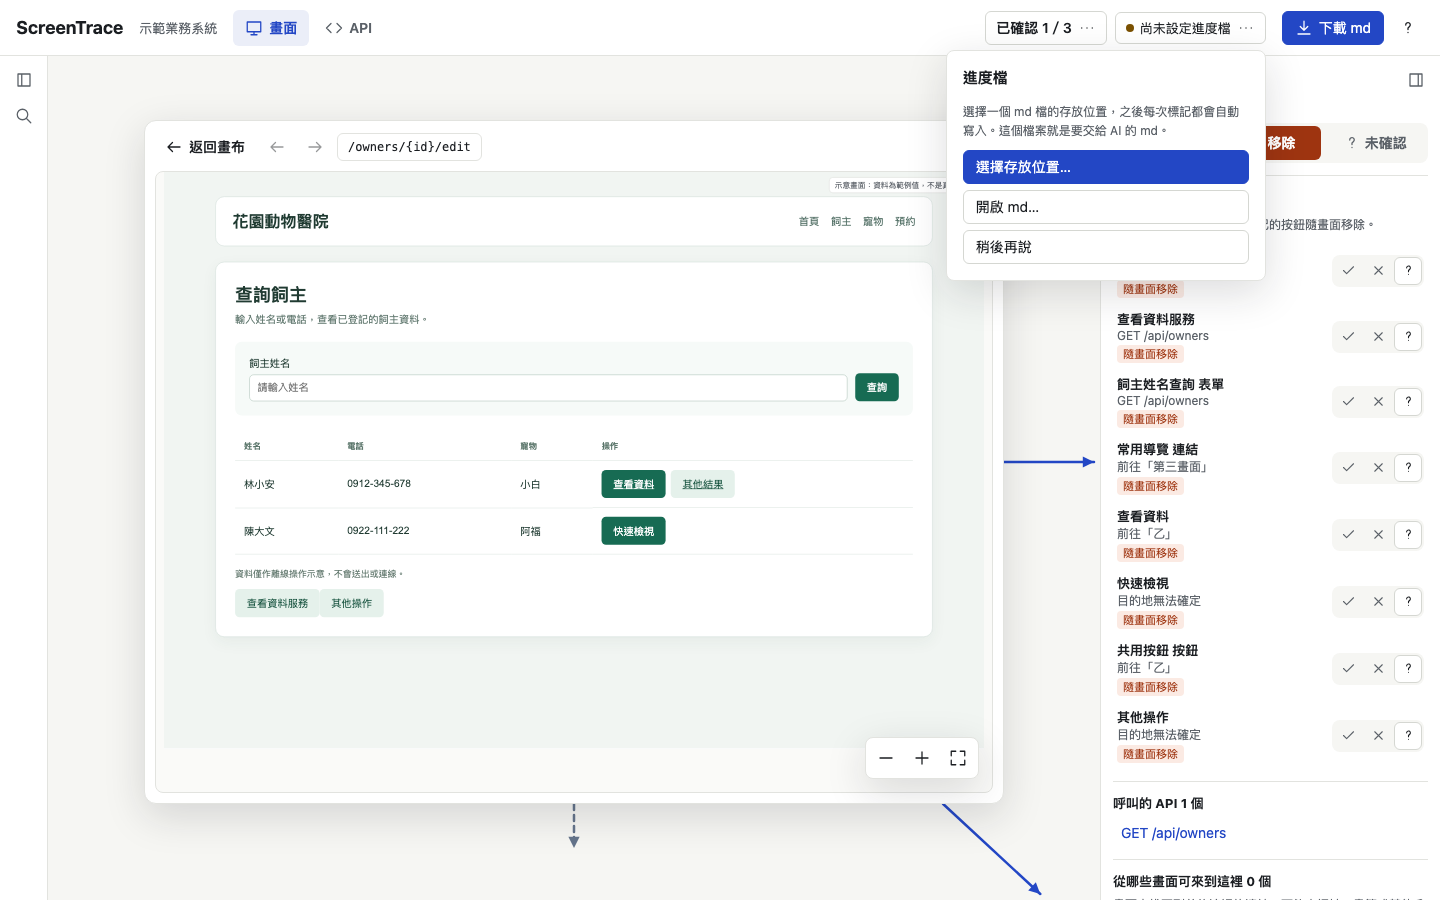
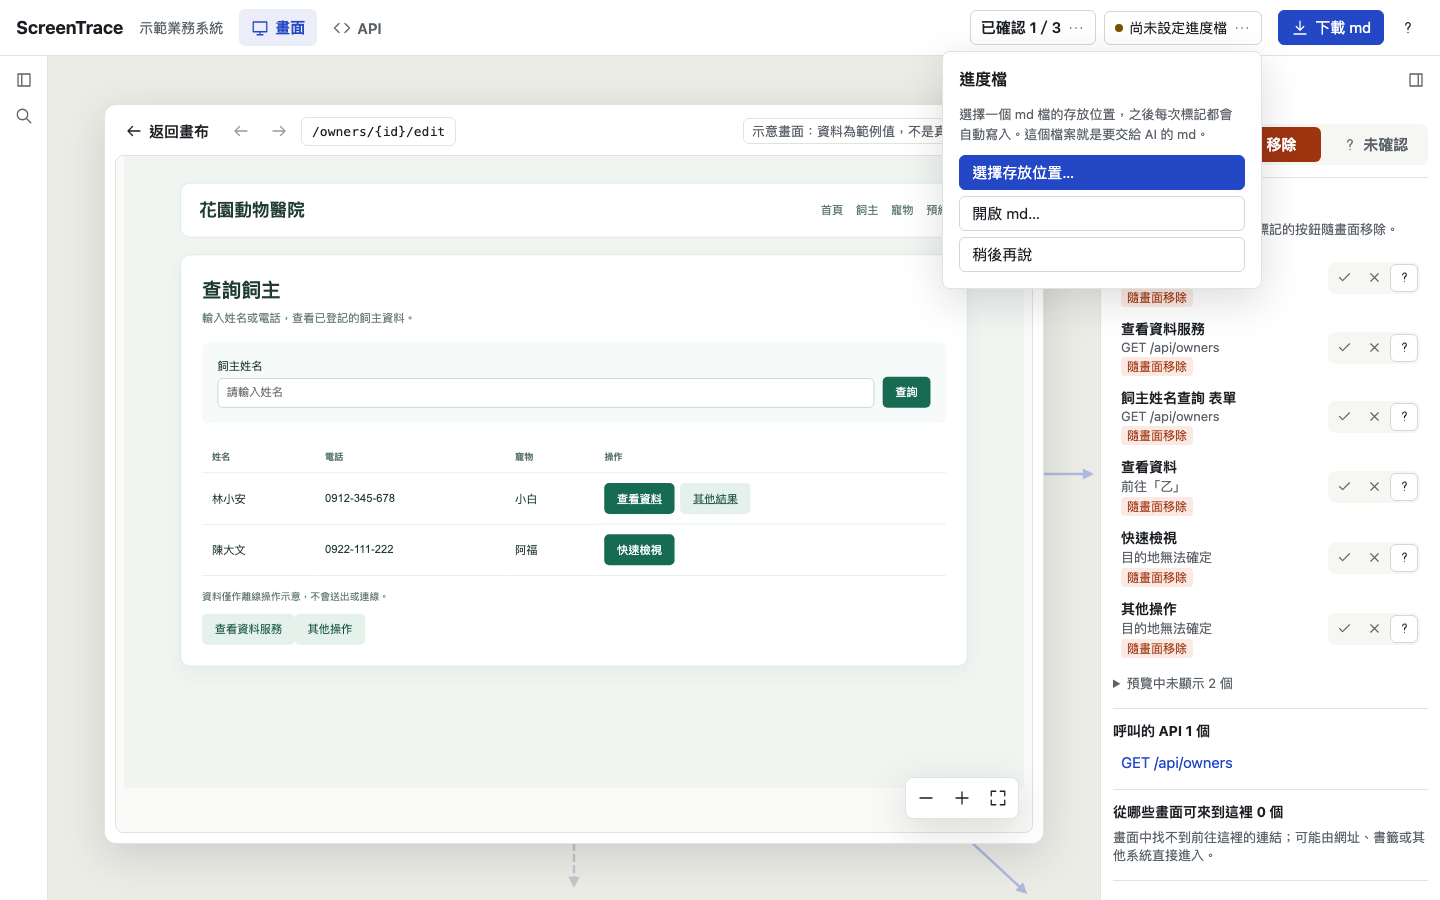
WP102: resizable screen list, and no usage hint on the canvas
The screen list beside the canvas is now 18% of the window (14-35%,
at least 200px) with the shared divider on its right edge. The hint in
the canvas's top-left corner is removed; the help popover lists the
same actions. Guide screenshots regenerated.

diff --git a/screentrace-viewer/src/viewer.css b/screentrace-viewer/src/viewer.css
@@ -71,7 +71,8 @@ h1,h2,h3{margin:0}
 /* layout: the side panels slide in step with the canvas zoom (same 450ms curve as canvas.ts) */
 @property --left{syntax:'<length>';inherits:true;initial-value:260px}
 @property --right{syntax:'<length>';inherits:true;initial-value:340px}
-.shell{--left:260px;--right:340px;--list-width:260px;--details-width:340px;display:grid;grid-template-columns:var(--left) minmax(0,1fr) var(--right);height:calc(100vh - 56px);transition:--left .45s cubic-bezier(.65,0,.35,1),--right .45s cubic-bezier(.65,0,.35,1)}
+/* The list is a share of the window (--list-split, set by its divider) but never narrower than 200px. */
+.shell{--list-width:max(200px,calc(var(--list-split,18) * 1vw));--left:var(--list-width);--right:340px;--details-width:340px;display:grid;grid-template-columns:var(--left) minmax(0,1fr) var(--right);height:calc(100vh - 56px);transition:--left .45s cubic-bezier(.65,0,.35,1),--right .45s cubic-bezier(.65,0,.35,1)}
 .shell:is([data-sidebar=collapsed],[data-sidebar=overlay]){--left:48px}
 .shell[data-details=collapsed]{--right:48px}
 .shell[data-details=hidden]{--right:0px}
@@ -93,7 +94,7 @@ h1,h2,h3{margin:0}
 .shell:is([data-sidebar=collapsed],[data-sidebar=overlay]) .sidebar-rail,.shell[data-details=collapsed] .details-rail{opacity:1;visibility:visible;transition:opacity .2s .2s}
 .shell[data-sidebar=collapsed] .sidebar-body,.shell[data-details=collapsed] :is(.details-body,.details-toggle){opacity:0;visibility:hidden;transition:opacity .15s,visibility 0s .15s}
 .shell[data-sidebar=overlay] .sidebar{z-index:25;overflow:visible}
-.shell[data-sidebar=overlay] .sidebar-body{position:absolute;top:0;bottom:0;left:0;width:260px;padding:12px;overflow:auto;background:white;border-right:1px solid var(--gray-200);box-shadow:var(--shadow-float)}
+.shell[data-sidebar=overlay] .sidebar-body{position:absolute;top:0;bottom:0;left:0;width:var(--list-width);padding:12px;overflow:auto;background:white;border-right:1px solid var(--gray-200);box-shadow:var(--shadow-float)}
 .details-panel{display:flex;flex-direction:column;align-items:flex-end;border-left:1px solid var(--gray-200)}
 /* At rest the details fill the panel beside any scrollbar; while the panel narrows they keep that width.
    A fixed width would overflow past the left edge whenever a scrollbar takes room (panel is right-aligned). */
@@ -165,8 +166,6 @@ main{position:relative;overflow:hidden;min-width:0}
 .screen-card[data-screen-status=KEEP] .review-status-icon{background:var(--keep)}
 .screen-card[data-screen-status=REMOVE] .review-status-icon{background:var(--remove)}
 .canvas[data-semantic-zoom=compact] .screen-caption strong{font-size:16px}
-.canvas-hint{position:absolute;left:16px;top:16px;z-index:5;margin:0;padding:6px 12px;background:white;border:1px solid var(--gray-200);border-radius:8px;box-shadow:var(--shadow-card);font-size:13px;color:var(--gray-500);pointer-events:none}
-.canvas[data-mode=focus] .canvas-hint{display:none}
 .canvas-controls{position:absolute;right:16px;bottom:16px;z-index:5;display:flex;gap:4px;padding:4px;background:white;border:1px solid var(--gray-200);border-radius:8px;box-shadow:var(--shadow-float)}
 .relation-tooltip{position:absolute;z-index:20;min-width:200px;max-width:280px;padding:12px;background:white;border:1px solid var(--gray-200);border-radius:var(--radius);box-shadow:var(--shadow-float);pointer-events:none;font-size:13px}
 .relation-tooltip strong{font-size:14px}
@@ -371,11 +370,11 @@ body[data-presenting=true] .focus-layer{position:fixed!important;inset:0!importa
 }
 
 @media (max-width:1180px){
- .shell{--left:220px;--right:300px;--list-width:220px;--details-width:300px}
+ .shell{--right:300px;--details-width:300px}
  #application,.save-status{display:none}
 }
 @media (max-width:1024px){
- .shell{--left:200px;--right:280px;--list-width:200px;--details-width:280px}
+ .shell{--right:280px;--details-width:280px}
  .topbar{gap:8px;padding:0 8px}
  .page-tab{padding:6px 8px}
 }
@@ -411,7 +410,6 @@ body[data-presenting=true] .focus-layer{position:fixed!important;inset:0!importa
 .shell[data-page=personas]{grid-template-columns:minmax(0,1fr)}
 .shell[data-page=personas] .sidebar,.shell[data-page=personas] .details-panel{display:none}
 .canvas-top{position:absolute;left:16px;top:16px;right:16px;z-index:5;display:flex;flex-direction:column;align-items:flex-start;gap:8px;pointer-events:none}
-.canvas-top .canvas-hint{position:static}
 .canvas[data-mode=focus] .canvas-top{display:none}
 .persona-bar{display:flex;flex-direction:column;gap:6px;max-width:100%;padding:8px 10px;background:white;border:1px solid var(--gray-200);border-radius:10px;box-shadow:var(--shadow-card);pointer-events:auto}
 .persona-switch{display:flex;flex-wrap:wrap;gap:4px}
@@ -592,3 +590,10 @@ button.persona-coverage-dot:hover{outline:2px solid var(--primary);outline-offse
 .persona-layout>.splitter:hover::before,.persona-layout>.splitter.is-dragging::before,.persona-layout>.splitter:focus-visible::before{background:var(--primary)}
 .persona-layout>.splitter::after{top:120px}
 .splitter:focus-visible{outline:none}
+/* The screen list's divider sits on the list's right edge, over its border, and only while the list is open. */
+.sidebar>.splitter{position:absolute;top:0;bottom:0;right:0;z-index:2;width:8px}
+.sidebar>.splitter::before{left:auto;right:0;transform:none;background:transparent}
+.sidebar>.splitter:is(:hover,.is-dragging,:focus-visible)::before{background:var(--primary)}
+.sidebar>.splitter::after{left:auto;right:2px;transform:translateY(-50%)}
+.shell:not([data-sidebar=expanded]) .sidebar>.splitter{display:none}
+.shell:has(.sidebar>.splitter.is-dragging){transition:none}

diff --git a/screentrace-viewer/src/canvas.ts b/screentrace-viewer/src/canvas.ts
@@ -25,7 +25,7 @@ export interface CanvasOptions extends CanvasState {
  onExitRequest:()=>void;
  /** Lays the map out this way instead of by URL areas, e.g. a persona's flow by step. */
  layout?:GroupedLayout;
- /** Shown above the hint in the top-left corner of the overview, e.g. the persona switch. */
+ /** Shown in the top-left corner of the overview, e.g. the persona switch. */
  toolbar?:HTMLElement;
 }
 export interface CanvasView {
@@ -113,8 +113,8 @@ export function canvas(index:Index,payload:Payload,options:CanvasOptions):Canvas
  const width=Math.max(800,layout.width),height=Math.max(600,layout.height);
  world.style.width=`${width}px`;world.style.height=`${height}px`;
  const visible=(id:string)=>!state.visible||state.visible.has(id);
- // Fitting keeps the map below the hint in the top-left corner so it never covers an area's title.
- const reserved=()=>{const hint=viewport.querySelector<HTMLElement>('.canvas-top')||viewport.querySelector<HTMLElement>('.canvas-hint');return hint&&!focused?Math.max(24,hint.offsetTop+hint.offsetHeight+8):24;};
+ // Fitting keeps the map below the toolbar in the top-left corner so it never covers an area's title.
+ const reserved=()=>{const top=viewport.querySelector<HTMLElement>('.canvas-top');return top&&!focused?Math.max(24,top.offsetTop+top.offsetHeight+8):24;};
  const frameRect=(left:number,top:number,w:number,h:number):CanvasTransform=>{
   const above=reserved(),room=viewport.clientHeight-above-24,z=Math.min(1,(viewport.clientWidth-48)/w,room/h);
   return {zoom:z,x:(viewport.clientWidth-w*z)/2-(left-40)*z,y:above+(room-h*z)/2-(top-40)*z};
@@ -505,10 +505,8 @@ export function canvas(index:Index,payload:Payload,options:CanvasOptions):Canvas
   if(zooming){zoomAt(Math.exp(-Math.max(-50,Math.min(50,event.deltaY*unit))*0.01),event.clientX,event.clientY);return;}
   x-=event.deltaX*unit;y-=event.deltaY*unit;viewport.dataset.fitted='true';apply();
  },{passive:false});
- const hint=element('p','點一下畫面看關聯 · 點兩下開啟畫面 · n 下一個未確認 · / 搜尋','canvas-hint');
- let top:HTMLElement=hint;
- if(options.toolbar){top=element('div',undefined,'canvas-top');top.append(options.toolbar,hint);}
- viewport.append(world,lines,layer,tips,top,controls);
+ viewport.append(world,lines,layer,tips,controls);
+ if(options.toolbar){const top=element('div',undefined,'canvas-top');top.append(options.toolbar);viewport.append(top);}
  update(state);apply();
  let observed:{width:number;height:number}|undefined;
  new ResizeObserver(entries=>{

diff --git a/screentrace-viewer/src/main.ts b/screentrace-viewer/src/main.ts
@@ -19,6 +19,7 @@ import {autosaveSupported,chooseSaveFile,chooseOpenFile,isCancel,writeFile,handl
 import {revealInPreview} from './reveal';
 import {graphPersonas,personaView,flowGroups,factLabel,reachLabel,reachHelp,reachText,reachSummary,personaDescription,personaLayout,PersonaView} from './personas';
 import {personaPage} from './persona-page';
+import {splitter,LIST_SPLIT} from './splitter';
 import {loadReview,saveReview,screenDecision,componentDecision,effectiveComponent,setScreen,setComponent,statistics,conflicts,ReviewState,Decision} from './shared/review';
 
 type Filter='ALL'|'UNDECIDED'|'KEEP'|'REMOVE';
@@ -135,7 +136,7 @@ try {
  const rail=element('div',undefined,'sidebar-rail'),expandList=iconButton('展開畫面清單','sidebar'),railSearch=iconButton('搜尋畫面','search');
  expandList.classList.add('rail-toggle');rail.append(expandList,railSearch);
  const sidebarBody=element('div',undefined,'sidebar-body');sidebarBody.append(sidebarHeader,searchBox,modes,chips,notices,list);
- nav.append(rail,sidebarBody);
+ nav.append(rail,sidebarBody,splitter(shell,{label:'畫面清單寬度',side:'start',range:LIST_SPLIT,value:LIST_SPLIT.initial,property:'--list-split',unit:'',onChange:()=>{}}));
  // The screen details appear only while a screen is open; they fold into a rail on their own edge, mirroring the list.
  const panelBody=element('div',undefined,'details-body'),collapseDetails=iconButton('收起畫面資訊','sidebarRight'),detailsRail=element('div',undefined,'details-rail'),expandDetails=iconButton('展開畫面資訊','sidebarRight');
  collapseDetails.classList.add('details-toggle');expandDetails.classList.add('rail-toggle');detailsRail.append(expandDetails);panel.append(collapseDetails,detailsRail,panelBody);

diff --git a/screentrace-viewer/src/splitter.ts b/screentrace-viewer/src/splitter.ts
@@ -16,7 +16,16 @@ export function splitAt(x:number,left:number,width:number,side:'start'|'end',ran
  return clampSplit(share,range);
 }
 
-export interface SplitterOptions {label:string;side:'start'|'end';range:SplitRange;value:number;onChange:(value:number)=>void}
+/** The screen list beside the canvas: a share of the window's width (18% is 260px on a 1440px window). */
+export const LIST_SPLIT:SplitRange={initial:18,min:14,max:35};
+
+export interface SplitterOptions {
+ label:string;side:'start'|'end';range:SplitRange;value:number;onChange:(value:number)=>void;
+ /** The custom property the share is written to, `--split` unless given. */
+ property?:string;
+ /** The unit written after the share, `%` unless given; an empty unit lets the stylesheet scale it, e.g. by 1vw. */
+ unit?:string;
+}
 
 /**
  * A draggable divider between two columns. The layout reads the sized column's share from `--split` on `host`;
@@ -31,7 +40,7 @@ export function splitter(host:HTMLElement,options:SplitterOptions):HTMLElement{
  handle.tabIndex=0;handle.title=`${options.label}：拖曳調整寬度，按兩下恢復預設`;
  const set=(value:number)=>{
   const share=clampSplit(value,range);
-  host.style.setProperty('--split',`${share}%`);handle.setAttribute('aria-valuenow',String(Math.round(share)));handle.setAttribute('aria-valuetext',`${Math.round(share)}%`);
+  host.style.setProperty(options.property??'--split',`${share}${options.unit??'%'}`);handle.setAttribute('aria-valuenow',String(Math.round(share)));handle.setAttribute('aria-valuetext',`${Math.round(share)}%`);
   options.onChange(share);return share;
  };
  let value=set(options.value);

diff --git a/docs/USER_GUIDE.md b/docs/USER_GUIDE.md
@@ -47,7 +47,7 @@
 5. 左側搜尋框可以輸入實際網址（例如 `/owners/5/edit`）或畫面名稱，符合的畫面會在清單與畫布上標出。
 
    畫面名稱取自畫面的標題；幾個畫面標題相同時，名稱後面加上網址區分，例如「預約中心（/reservation/today/manage）」。標題是動態內容或沒有標題時，改用程式中的元件名稱（英文）。只會轉到其他畫面、本身沒有內容的網址，會顯示為「轉址到「某畫面」」，通常可以考慮移除。
-6. 左側可切換「清單」或「檔案結構」，也可以用「全部／未確認／保留／移除」篩選。
+6. 左側可切換「清單」或「檔案結構」，也可以用「全部／未確認／保留／移除」篩選。清單預設占視窗寬度 18%（最窄 200px），右緣的分隔線可以拖曳調整，或按 Tab 移到分隔線再用 ← → 調整，按兩下恢復預設；收起清單時不顯示分隔線。
 7. 分析人員設定了角色（例如訪客、顧客、商家）時，畫布左上角會多一排角色按鈕，上方也多一個「角色」分頁；沒有設定時兩者都不會出現。
 
    點一個角色，畫布改成這個角色的流程圖：最左邊一欄是從起點網址第 1 步就會看到的畫面，往右依序是第 2 步、第 3 步……，線只畫「下一步」會去的地方。按鈕下方有這個角色的說明與兩種框線的意思：綠色實線框是「會走到」（一路上的條件都成立），灰色虛線框是「可能走到」（途中有 ScreenTrace 無法判定的條件，請自行確認）。這個角色走不到或不適用的畫面預設隱藏，勾選「顯示走不到、不適用的畫面」才會排在最右邊。左側清單也改成依步數列出，判定條件收在「判定條件」裡。打開畫面時，右側會顯示這個畫面對目前角色的狀態。點「不套用角色」就恢復原本的畫布。

diff --git a/docs/ROADMAP.md b/docs/ROADMAP.md
@@ -242,5 +242,5 @@
 
 ## R32 API 與角色頁的圖形化元素與角色頁改版
 
-- WP102：API 清單的方法色標、路徑參數標示與呼叫畫面數長條；API 詳情區在寬螢幕上分成左右兩欄；角色頁改為上方角色卡片、流程看板與「全部角色對照」覆蓋表；API 清單與角色頁右欄改為比例寬度並可拖曳調整，見 [ADR 0123](adr/0123-r32-api-persona-graphics.md)。
-- 驗證：viewer 單元測試 147 個（新增 6）、E2E 107 個（新增 5；`api-page-layout`、`r23-persona-page`、`r28-visual-summaries` 中與舊版面綁定的斷言隨改版調整）、JS 測試 180 個、Maven 579（0 失敗、1 略過）全部通過；reservio 的 `viewer-documents.json` 與修改前逐位元組相同，只有報表 HTML 內的 viewer 改變。
+- WP102：API 清單的方法色標、路徑參數標示與呼叫畫面數長條；API 詳情區在寬螢幕上分成左右兩欄；角色頁改為上方角色卡片、流程看板與「全部角色對照」覆蓋表；API 清單、角色頁右欄與畫面清單改為比例寬度並可拖曳調整；viewer 小字放大 1px；移除畫布左上角的操作提示，見 [ADR 0123](adr/0123-r32-api-persona-graphics.md)。
+- 驗證：viewer 單元測試 147 個（新增 6）、E2E 108 個（新增 6；`api-page-layout`、`r23-persona-page`、`r28-visual-summaries`、`r17-focus`、`overview-pin` 中與舊版面或操作提示綁定的斷言隨改版調整）、JS 測試 180 個、Maven 579（0 失敗、1 略過）全部通過；reservio 的 `viewer-documents.json` 與修改前逐位元組相同，只有報表 HTML 內的 viewer 改變。
